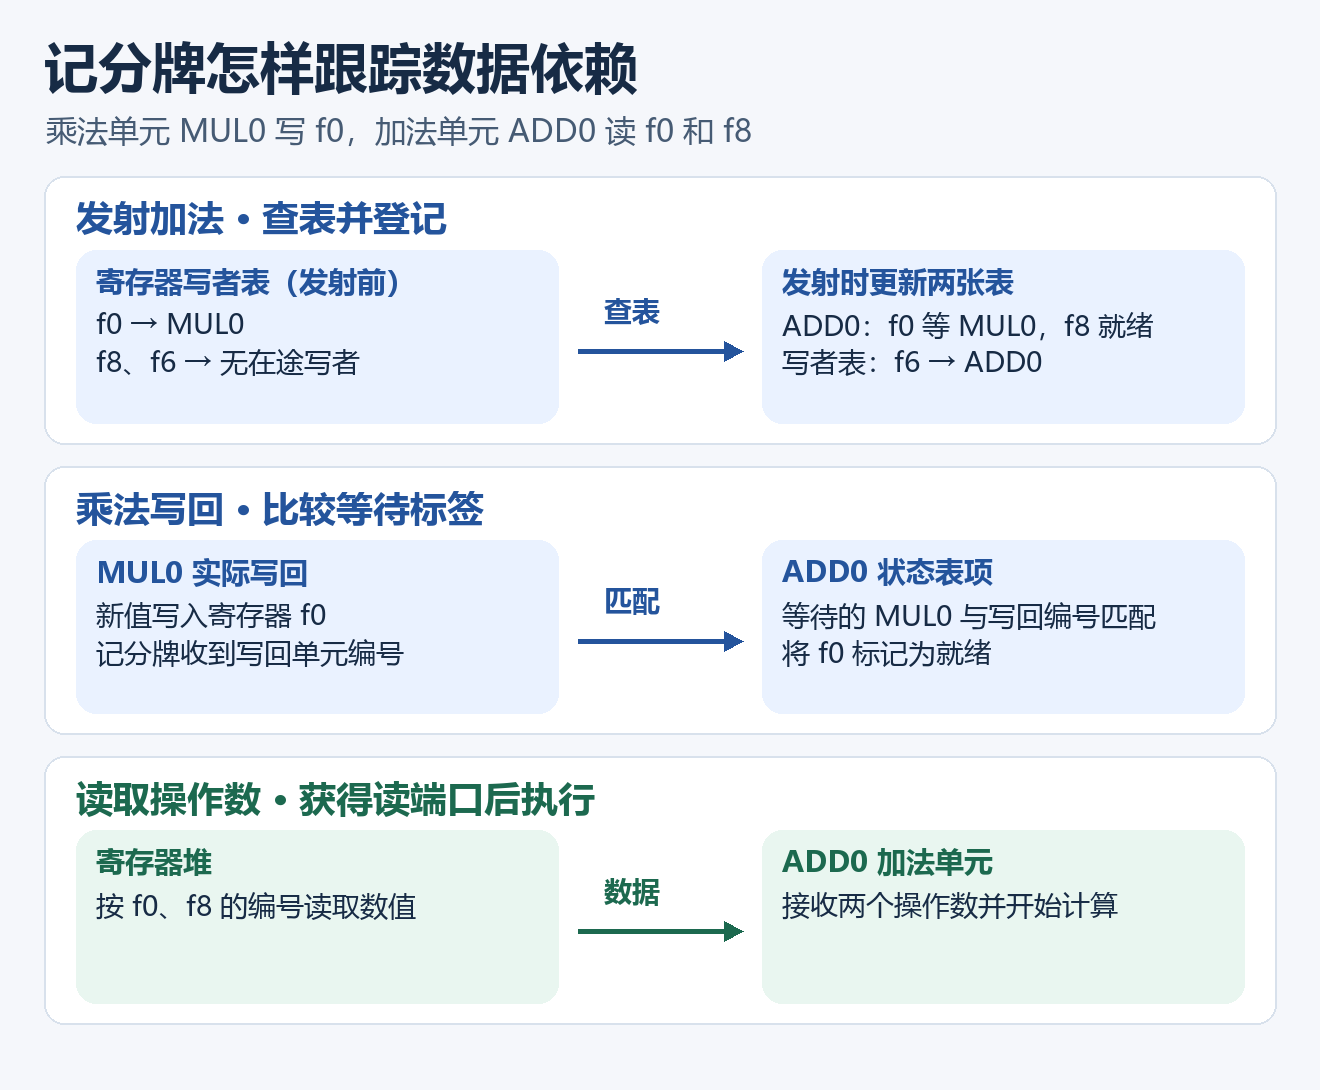
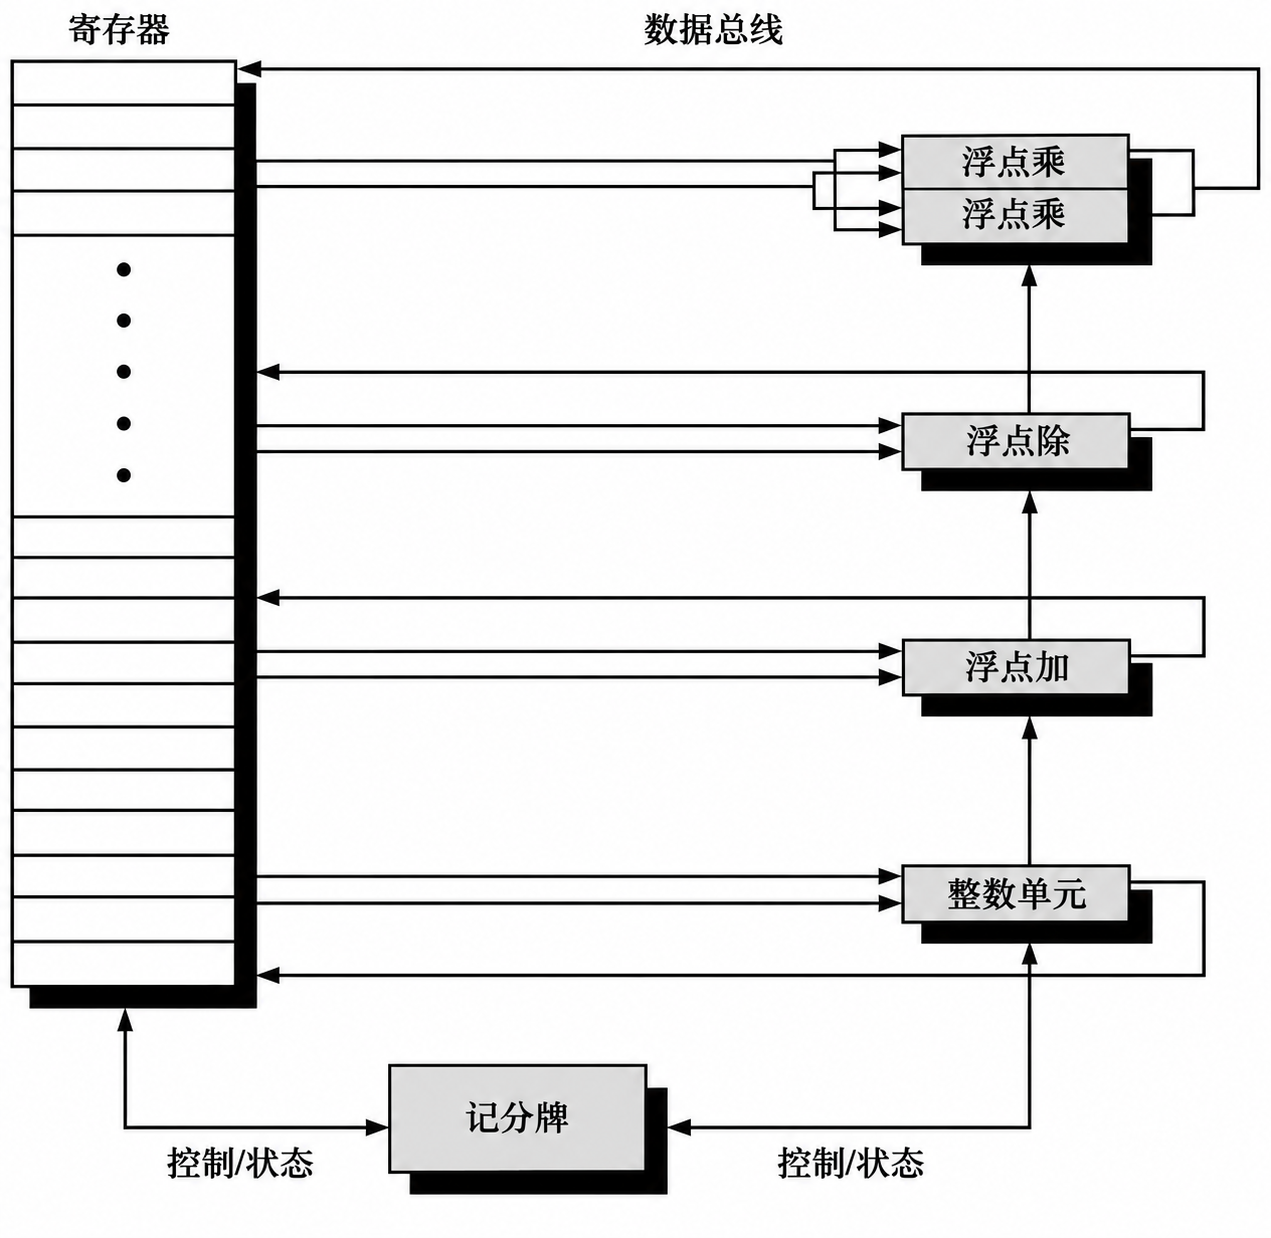
Explain scoreboard hardware step by step and clarify textbook diagram

Changed region(s): [[0.0, 0.0, 1.0, 0.967]]

diff --git a/dist/blog/riscv-datapath-learning-notes/index.html b/dist/blog/riscv-datapath-learning-notes/index.html
@@ -122,13 +122,30 @@ add x6, x5, x3
 <p>本节数值与指令来自学习讨论；五级流水线的加载依赖及停顿机制参见<a class="external-reference" href="https://pages.hmc.edu/harris/class/e85/DDCArv_Ch7.pdf#page=118" target="_blank" rel="noreferrer">Harris 第7章配套讲义，第118–120页</a>。</p>
 <p>图源：Harris《Digital Design and Computer Architecture: RISC-V Edition》相关教学数据通路，个人整理与批注。</p>
 <h2 id="记分牌的硬件实现"><a class="heading-anchor" href="#记分牌的硬件实现" aria-label="Link to this section">#</a>记分牌的硬件实现</h2>
-<p>经典记分牌用<strong>寄存器写者表</strong>记录每个寄存器的在途写者，用<strong>功能单元状态表</strong>记录指令的源和目的寄存器，以及各源操作数在等哪个单元写回。<a class="external-reference" href="https://shop.elsevier.com/books/book-companion/9780128119051" target="_blank" rel="noreferrer">Hennessy 与 Patterson，第 6 版附录 C §C.7</a></p>
-<ul>
-<li><strong>发射。</strong> 功能单元空闲且目的寄存器没有在途写者时，用源寄存器编号查写者表，锁存依赖，并登记目的寄存器的新写者。</li>
-<li><strong>写回。</strong> 生产者实际写回后，记分牌用它的功能单元编号匹配等待项，将匹配的操作数标为就绪。</li>
-<li><strong>读取。</strong> 两个源操作数均就绪且获得读端口后，寄存器堆把数值送到功能单元，指令开始执行。</li>
-</ul>
-<figure><a class="article-image-link" href="figures/scoreboard-hardware.png" target="_blank" rel="noopener noreferrer" title="查看原图"><img src="figures/scoreboard-hardware.png" alt="经典记分牌的硬件实现，展示发射登记、写回匹配和操作数读取" loading="lazy"></a><figcaption>经典记分牌的硬件实现，展示发射登记、写回匹配和操作数读取</figcaption></figure>
+<figure><a class="article-image-link" href="figures/scoreboard-hardware.png" target="_blank" rel="noopener noreferrer" title="查看原图"><img src="figures/scoreboard-hardware.png" alt="带记分牌的处理器结构，左侧为寄存器堆，右侧为功能单元，下方为记分牌" loading="lazy"></a><figcaption>带记分牌的处理器结构，左侧为寄存器堆，右侧为功能单元，下方为记分牌</figcaption></figure>
+<p>图按 Hennessy 与 Patterson《Computer Architecture: A Quantitative Approach》第 6 版附录 C §C.7 的教材图清晰化。上方数据总线传输操作数和运算结果，下方控制／状态线在记分牌、寄存器堆和功能单元之间传递状态与控制信号。<a class="external-reference" href="https://shop.elsevier.com/books/book-companion/9780128119051" target="_blank" rel="noreferrer">教材配套页</a></p>
+<pre><code class="language-asm">fmul.d f0, f2, f4    # 乘法单元 MUL0 将结果写入 f0
+fadd.d f6, f0, f8    # 加法单元 ADD0 要读 f0 和 f8
+</code></pre>
+<p><strong>发射时查表并锁存。</strong> 乘法发射后，寄存器写者表中 <code>writer[f0] = MUL0</code>。本例假设 <code>f8</code> 已就绪。加法译码后，组合逻辑用 <code>f0</code>、<code>f8</code> 和 <code>f6</code> 的寄存器编号并行查表。若 <code>ADD0</code> 空闲且 <code>f6</code> 没有在途写者，加法在时钟沿占用 <code>ADD0</code>。这次发射在同一个时钟沿更新两张表。</p>
+<table>
+<thead>
+<tr>
+<th>写入位置</th>
+<th>锁存内容</th>
+</tr>
+</thead>
+<tbody><tr>
+<td>功能单元状态表的 <code>ADD0</code> 项</td>
+<td>源寄存器 <code>f0, f8</code>，目的寄存器 <code>f6</code>。第一个源等待 <code>MUL0</code>，第二个源已就绪。</td>
+</tr>
+<tr>
+<td>寄存器写者表的 <code>f6</code> 项</td>
+<td><code>writer[f6] = ADD0</code>。后续读取 <code>f6</code> 的指令可以查到生产者。</td>
+</tr>
+</tbody></table>
+<p><strong>写回时匹配生产者。</strong> <code>MUL0</code> 实际把结果写入寄存器堆时，记分牌收到实际写回信号和单元编号。比较器将编号与各个等待标签比较。<code>ADD0</code> 的第一个源匹配 <code>MUL0</code>，所以在写回沿被标为就绪。<code>f0</code> 的在途写者记录同时清除。</p>
+<p><strong>操作数就绪后驱动读端口。</strong> 当 <code>ADD0</code> 仍处于等待读取状态、两个源都就绪且读端口授权给它，记分牌用锁存的 <code>f0</code>、<code>f8</code> 编号选择寄存器堆读地址。两个操作数经数据总线送到 <code>ADD0</code>，加法随后进入执行。</p>
 
         </article>
       </div>

diff --git a/content/posts/riscv-datapath-learning-notes/index.md b/content/posts/riscv-datapath-learning-notes/index.md
@@ -93,10 +93,22 @@ add x6, x5, x3
 
 ## 记分牌的硬件实现
 
-经典记分牌用**寄存器写者表**记录每个寄存器的在途写者，用**功能单元状态表**记录指令的源和目的寄存器，以及各源操作数在等哪个单元写回。[Hennessy 与 Patterson，第 6 版附录 C §C.7](https://shop.elsevier.com/books/book-companion/9780128119051)
+![带记分牌的处理器结构，左侧为寄存器堆，右侧为功能单元，下方为记分牌](figures/scoreboard-hardware.png)
 
-- **发射。** 功能单元空闲且目的寄存器没有在途写者时，用源寄存器编号查写者表，锁存依赖，并登记目的寄存器的新写者。
-- **写回。** 生产者实际写回后，记分牌用它的功能单元编号匹配等待项，将匹配的操作数标为就绪。
-- **读取。** 两个源操作数均就绪且获得读端口后，寄存器堆把数值送到功能单元，指令开始执行。
+图按 Hennessy 与 Patterson《Computer Architecture: A Quantitative Approach》第 6 版附录 C §C.7 的教材图清晰化。上方数据总线传输操作数和运算结果，下方控制／状态线在记分牌、寄存器堆和功能单元之间传递状态与控制信号。[教材配套页](https://shop.elsevier.com/books/book-companion/9780128119051)
 
-![经典记分牌的硬件实现，展示发射登记、写回匹配和操作数读取](figures/scoreboard-hardware.png)
+```asm
+fmul.d f0, f2, f4    # 乘法单元 MUL0 将结果写入 f0
+fadd.d f6, f0, f8    # 加法单元 ADD0 要读 f0 和 f8
+```
+
+**发射时查表并锁存。** 乘法发射后，寄存器写者表中 `writer[f0] = MUL0`。本例假设 `f8` 已就绪。加法译码后，组合逻辑用 `f0`、`f8` 和 `f6` 的寄存器编号并行查表。若 `ADD0` 空闲且 `f6` 没有在途写者，加法在时钟沿占用 `ADD0`。这次发射在同一个时钟沿更新两张表。
+
+| 写入位置 | 锁存内容 |
+|---|---|
+| 功能单元状态表的 `ADD0` 项 | 源寄存器 `f0, f8`，目的寄存器 `f6`。第一个源等待 `MUL0`，第二个源已就绪。 |
+| 寄存器写者表的 `f6` 项 | `writer[f6] = ADD0`。后续读取 `f6` 的指令可以查到生产者。 |
+
+**写回时匹配生产者。** `MUL0` 实际把结果写入寄存器堆时，记分牌收到实际写回信号和单元编号。比较器将编号与各个等待标签比较。`ADD0` 的第一个源匹配 `MUL0`，所以在写回沿被标为就绪。`f0` 的在途写者记录同时清除。
+
+**操作数就绪后驱动读端口。** 当 `ADD0` 仍处于等待读取状态、两个源都就绪且读端口授权给它，记分牌用锁存的 `f0`、`f8` 编号选择寄存器堆读地址。两个操作数经数据总线送到 `ADD0`，加法随后进入执行。
